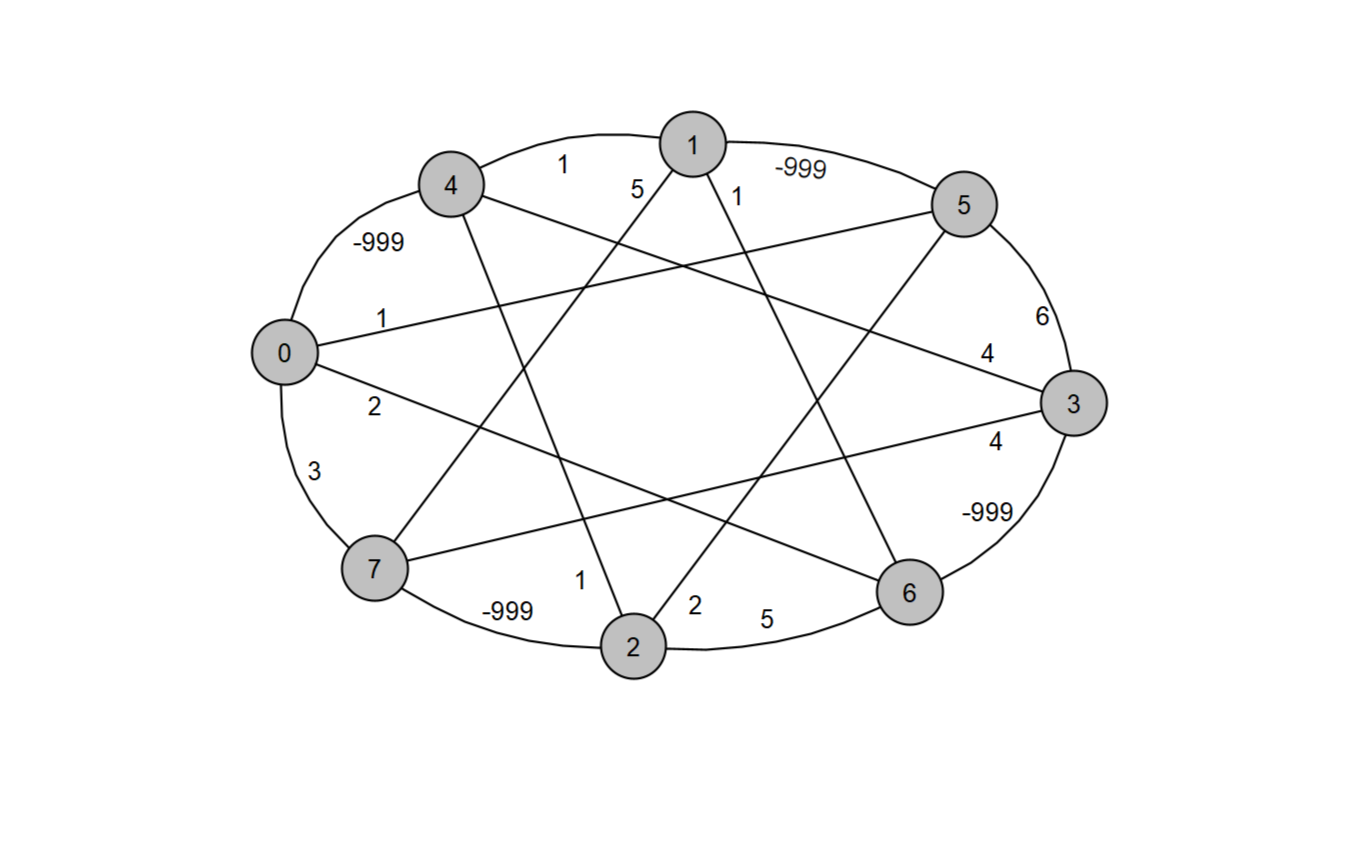
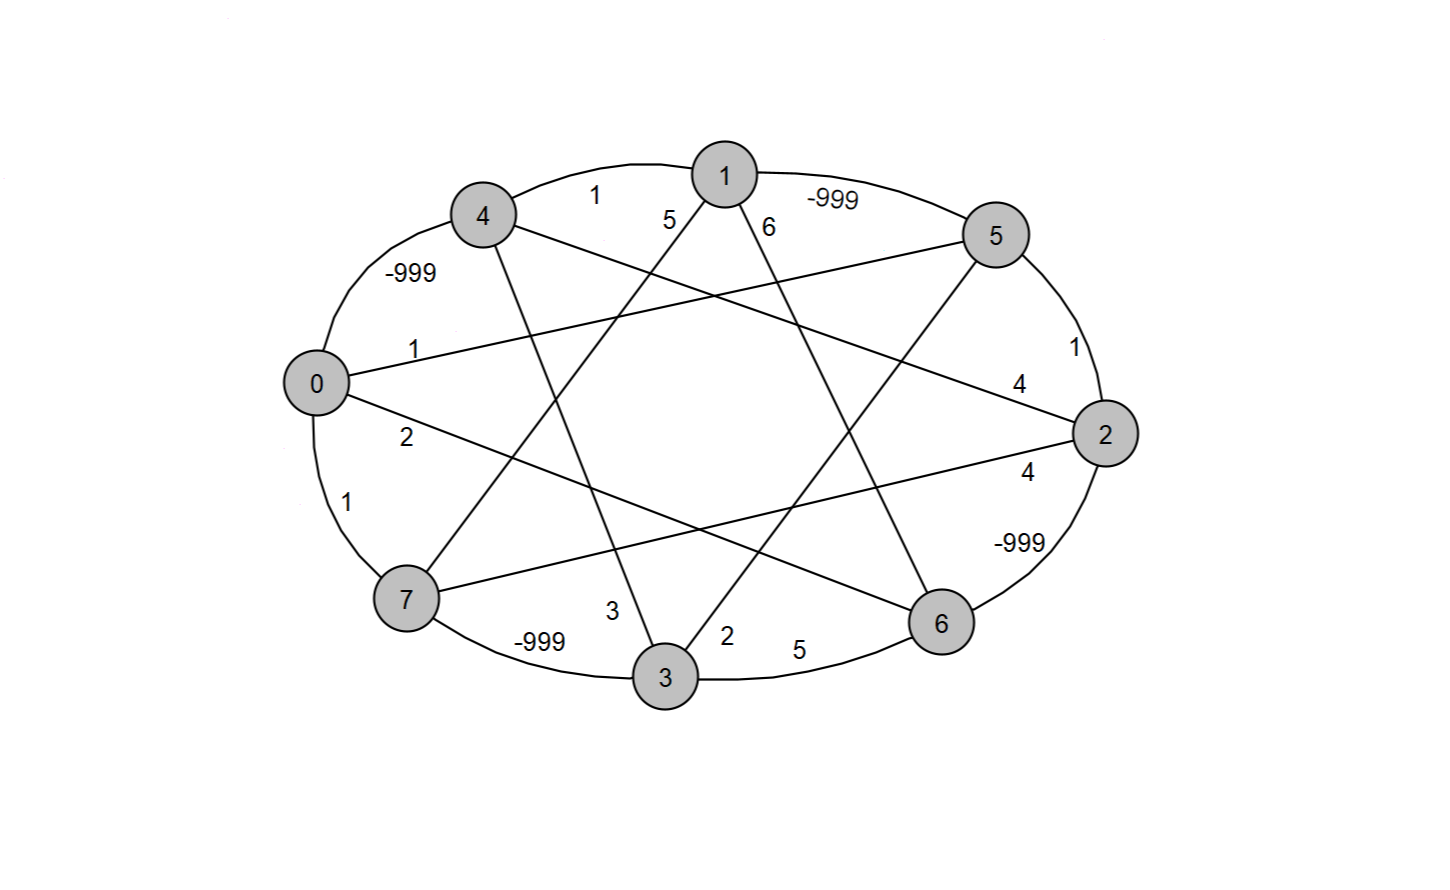
modify aTSP images and matrix

Changed region(s): [[0.1861, 0.1235, 0.8375, 0.8029], [0.2482, 0.6176, 0.3412, 0.7102], [0.2171, 0.5249, 0.2482, 0.6176]]

diff --git a/TSP/src/app/components/variations/variations.component.ts b/TSP/src/app/components/variations/variations.component.ts
@@ -35,18 +35,12 @@ export class VariationsComponent {
   ];
 
   columns_aTSP: string[] = ['position', '0', '1', '2', '3'];
-  // matrix_aTSP = [
-  //   {position: 0, first: "∞", second: 1, third: 4, fourth: 1},
-  //   {position: 1, first: 1, second: "∞", third: 6, fourth: 2},
-  //   {position: 2, first: 2, second: 1, third: "∞", fourth: 5},
-  //   {position: 3, first: 3, second: 5, third: 4, fourth: "∞"},
-  // ];
 
   matrix_aTSP = [
-    [ "∞",  1,  4,  1],
-    [1,  "∞", 6, 2],
-    [2,  1, "∞",  5],
-    [3, 5, 4, "∞"]
+    [ "∞",  1,  4,  3],
+    [1,  "∞", 1, 2],
+    [2,  6, "∞",  5],
+    [1, 5, 4, "∞"]
   ];
 
   
@@ -98,7 +92,7 @@ export class VariationsComponent {
         } else {
           nameId = this.currentSubsection.subsection + '';
         }
-        (document.getElementById(nameId) as HTMLElement).scrollIntoView();  //.scrollIntoView({behavior: "smooth", block: "start", inline: "nearest"}); 
+        (document.getElementById(nameId) as HTMLElement).scrollIntoView();  
       }
     }
     catch {}

diff --git a/TSP/src/app/components/approximation-algorithms/approximation-algorithms.component.ts b/TSP/src/app/components/approximation-algorithms/approximation-algorithms.component.ts
@@ -52,7 +52,7 @@ export class ApproximationAlgorithmsComponent {
         } else {
           nameId = this.currentSubsection.subsection + '';
         }
-        (document.getElementById(nameId) as HTMLElement).scrollIntoView(); //.scrollIntoView({behavior: "smooth", block: "start", inline: "nearest"}); 
+        (document.getElementById(nameId) as HTMLElement).scrollIntoView(); 
       }
     }
     catch {}
@@ -75,8 +75,6 @@ export class ApproximationAlgorithmsComponent {
 
   goToNewTab(){
     const link = "https://sci-hub.ru/10.1007/978-3-540-71844-4";
-    // this.router.navigate([]).then(result => {  window.open(link, '_blank'); });
-    console.log("ajunge");
     window.open(link, '_blank'); 
   }
 }

diff --git a/TSP/src/app/components/exact-algorithms/exact-algorithms.component.ts b/TSP/src/app/components/exact-algorithms/exact-algorithms.component.ts
@@ -43,7 +43,7 @@ export class ExactAlgorithmsComponent {
         } else {
           nameId = this.currentSubsection.subsection + '';
         }
-        (document.getElementById(nameId) as HTMLElement).scrollIntoView();  //.scrollIntoView({behavior: "smooth", block: "start", inline: "nearest"}); 
+        (document.getElementById(nameId) as HTMLElement).scrollIntoView(); 
       }
     }
     catch {}

diff --git a/TSP/src/app/components/input-class/input-class.component.ts b/TSP/src/app/components/input-class/input-class.component.ts
@@ -26,4 +26,17 @@ export class InputClassComponent {
 
   ngOnInit() {
   }
+
+  ngOnChanges(): void {
+    this.scroll();
+  }
+
+  scroll(): void {
+    try {
+      if (this.currentSubsection.activate) {
+        (document.getElementById("up") as HTMLElement).scrollIntoView(); 
+      }
+    }
+    catch {}
+  }
 }

diff --git a/TSP/src/app/components/about-tsp/about-tsp.component.ts b/TSP/src/app/components/about-tsp/about-tsp.component.ts
@@ -22,4 +22,17 @@ export class AboutTspComponent {
     });
   }
 
+  ngOnChanges(): void {
+    this.scroll();
+  }
+
+  scroll(): void {
+    try {
+      if (this.currentSubsection.activate) {
+        (document.getElementById("up") as HTMLElement).scrollIntoView(); 
+      }
+    }
+    catch {}
+  }
+
 }

diff --git a/TSP/src/app/components/layout/layout.component.ts b/TSP/src/app/components/layout/layout.component.ts
@@ -50,6 +50,7 @@ export class LayoutComponent {
     localStorage.setItem('language', language);
     localStorage.setItem('section', this.section.section);
     localStorage.setItem('subsection', this.section.subsection);
+    console.log(this.section.subsection);
     window.location.reload();
   }
 

diff --git a/TSP/src/app/components/variations/variations.component.html b/TSP/src/app/components/variations/variations.component.html
@@ -13,7 +13,6 @@
     </div>
     
     <div>
-        <!-- <p class="highlight">{{ 'variations.asymmetric.comutation-atsp-stsp.title' | translate }}</p> -->
         <p class="italic-text">{{ 'variations.asymmetric.comutation-atsp-stsp.text' | translate }}</p>
     </div>
     

diff --git a/TSP/src/app/components/input-class/input-class.component.html b/TSP/src/app/components/input-class/input-class.component.html
@@ -1,4 +1,4 @@
-<div class="section-box">
+<div id="up" class="section-box">
     
     <p>{{'input-class.header' | translate}}</p>
 
